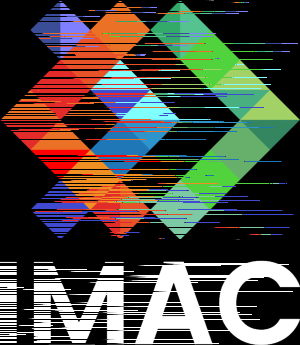
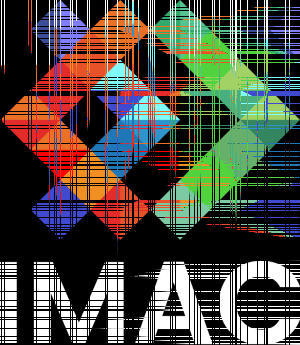
???

diff --git a/elvin/src/tri/main.cpp b/elvin/src/tri/main.cpp
@@ -78,7 +78,7 @@ void tri_horizontal_hue (sil::Image& image, int max_iterations) {
         // HUE
         std::sort(
             image.pixels().begin() + (row_index_to_sort * width), 
-            image.pixels().begin() + (row_index_to_sort * width) + random_int(0, width), 
+            image.pixels().begin() + (row_index_to_sort * width) + width, 
             [](const glm::vec3& color1, const glm::vec3& color2) {
                 if (rgbToHsl(color1).x == rgbToHsl(color2).x) {
                     return rgbToHsl(color1).z < rgbToHsl(color2).z;

diff --git a/elvin/src/fractale/main.cpp b/elvin/src/fractale/main.cpp
@@ -100,7 +100,7 @@ int main()
 
                 if (std::abs(z) > 2) {
                     // image.pixel(x, y) = glm::vec3{iterations/maxIterationsTest};
-                    // image.pixel(x, y).r = iterations/maxIterationsTest;
+                    // image.pixel(x, y).r = iterations/maxIterationsTest;  
                     image.pixel(x, y) = hslToRgb(glm::vec3{x/width, 1.f, iterations/maxIterationsTest});
                     break;
                 }
